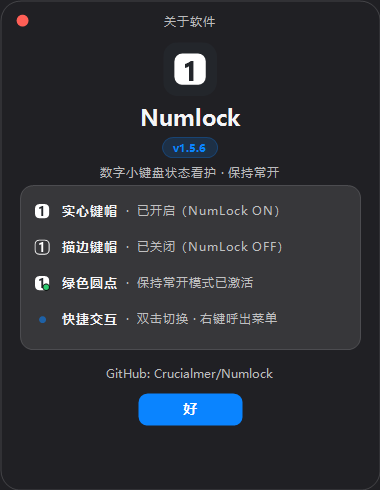
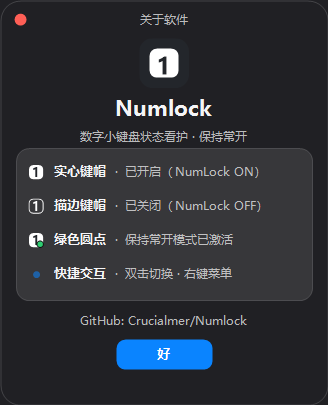
feat: implement Plan B minimalist about window without version number, compact 328x405 sizing (v1.5.7)

diff --git a/MacAboutWindow.cs b/MacAboutWindow.cs
@@ -5,17 +5,19 @@ using System.Drawing.Text;
 namespace Numlock;
 
 /// <summary>
-/// macOS 26 风格独立“关于软件”模态卡片窗口：
+/// macOS 26 风格独立“关于软件”紧凑型模态卡片窗口（方案 B：极致纯粹极简设计）：
+/// · 纯粹极简视觉：彻底移除版本号字符串与花哨技术胶囊，回归原生极简温润感
+/// · 紧凑秀气尺寸：宽度收缩至 328px，高度收缩至 405px，黄金纵横比例
 /// · 居中呈现于用户当前操作的显示器工作区，与 macOS 原生面板标准对齐
 /// · 连续曲率圆角矩形（Squircle）+ 极细半透明发丝描边 + 瞬态亚克力材质（DWM Transient Acrylic）
 /// · macOS 经典红点关闭控制 + 顶部居中细致标题 + 全窗平滑拖拽移动
-/// · 54px 品牌键帽磁贴应用图标 + 加粗品牌名 + 磨砂半透明版本徽标胶囊
+/// · 50px 品牌键帽磁贴应用图标 + 醒目品牌名 + 次级描述副标题
 /// · 状态图例与功能指引内嵌卡片（macOS Inset Card）：
 ///     1. 实心键帽：已开启（NumLock ON）
 ///     2. 描边键帽：已关闭（NumLock OFF）
 ///     3. 绿色圆点：保持常开模式已激活
-///     4. 快捷交互：双击切换 · 右键呼出菜单
-/// · 纯 GDI+ 抗锯齿文本渲染，彻底杜绝 ClearType 边缘重影
+///     4. 快捷交互：双击切换 · 右键菜单
+/// · 纯 GDI+ 抗锯齿矢量文本渲染，彻底杜绝 ClearType 边缘重影
 /// · 适配高 DPI 显示器（最高 8K 显示器，DPI 384+）与跨屏动态漫游（OnDpiChanged）
 /// · 沉浸式深/浅双模自适应 + 键盘交互（Esc / Enter 关闭）
 /// </summary>
@@ -23,7 +25,6 @@ internal sealed class MacAboutWindow : Form
 {
     private static MacAboutWindow? s_instance;
 
-    private readonly string _version;
     private readonly bool _dark;
     private float _scale;
     private int _cornerRadius;
@@ -54,9 +55,8 @@ internal sealed class MacAboutWindow : Form
 
     public static bool IsVisible => s_instance != null && !s_instance.IsDisposed && s_instance.Visible;
 
-    internal MacAboutWindow(string version, bool? dark = null)
+    internal MacAboutWindow(string? version = null, bool? dark = null)
     {
-        _version = version;
         _dark = dark ?? !SystemTheme.UsesLightTaskbar();
         _scale = DeviceDpi / 96f;
         _cornerRadius = (int)(16 * _scale);
@@ -70,8 +70,9 @@ internal sealed class MacAboutWindow : Form
         BackColor = Color.FromArgb(BgColor.R, BgColor.G, BgColor.B);
         KeyPreview = true;
 
-        int width = (int)(380 * _scale);
-        int height = (int)(490 * _scale);
+        // 紧凑型尺寸：328 x 405（黄金卡片比例）
+        int width = (int)(328 * _scale);
+        int height = (int)(405 * _scale);
         ClientSize = new Size(width, height);
 
         // 居中呈现于用户当前操作光标所在的显示器工作区（符合 macOS 原生面板标准）
@@ -158,8 +159,8 @@ internal sealed class MacAboutWindow : Form
 
         // ——— 2. macOS 顶部标题栏控制（左上角红点 + 居中标题） ———
         float dotSize = 12 * _scale;
-        float dotX = 16 * _scale;
-        float dotY = 14 * _scale;
+        float dotX = 14 * _scale;
+        float dotY = 13 * _scale;
         _closeBtnRect = new RectangleF(dotX - 3, dotY - 3, dotSize + 6, dotSize + 6);
 
         Color dotColor = _closePressed
@@ -183,56 +184,37 @@ internal sealed class MacAboutWindow : Form
         }
 
         // 顶部居中细致标题
-        using (var topFont = new Font("Microsoft YaHei", 12.5f * _scale, FontStyle.Regular, GraphicsUnit.Pixel))
+        using (var topFont = new Font("Microsoft YaHei", 12f * _scale, FontStyle.Regular, GraphicsUnit.Pixel))
         {
-            DrawStringCenter(g, "关于软件", topFont, SecondaryFg, new RectangleF(0, 12 * _scale, w, 20 * _scale));
+            DrawStringCenter(g, "关于软件", topFont, SecondaryFg, new RectangleF(0, 11 * _scale, w, 18 * _scale));
         }
 
-        // ——— 3. 应用标识（居中大磁贴 + 品牌名 + 胶囊版本徽标） ———
-        int iconSize = (int)(54 * _scale);
+        // ——— 3. 应用标识（居中精致磁贴 + 品牌名 + 纯粹副标题，不标版本号） ———
+        int iconSize = (int)(50 * _scale);
         int iconX = (w - iconSize) / 2;
-        int iconY = (int)(42 * _scale);
+        int iconY = (int)(38 * _scale);
         using (var tileBmp = IconFactory.RenderAppTile(iconSize))
         {
             g.DrawImage(tileBmp, iconX, iconY, iconSize, iconSize);
         }
 
-        // 品牌应用名（Bold 22px）
-        using var nameFont = new Font("Microsoft YaHei", 22f * _scale, FontStyle.Bold, GraphicsUnit.Pixel);
+        // 品牌应用名（Bold 21px）
+        using var nameFont = new Font("Microsoft YaHei", 21f * _scale, FontStyle.Bold, GraphicsUnit.Pixel);
         var nameSize = g.MeasureString("Numlock", nameFont);
         int nameY = iconY + iconSize + (int)(6 * _scale);
         DrawStringCenter(g, "Numlock", nameFont, FgColor, new RectangleF(0, nameY, w, nameSize.Height));
 
-        // 版本徽标胶囊（Pill Badge）
-        string verBadge = "v" + _version;
-        using var verFont = new Font("Microsoft YaHei", 11.5f * _scale, FontStyle.Bold, GraphicsUnit.Pixel);
-        var verSize = g.MeasureString(verBadge, verFont);
-        int badgeW = (int)verSize.Width + (int)(16 * _scale);
-        int badgeH = (int)verSize.Height + (int)(4 * _scale);
-        int badgeX = (w - badgeW) / 2;
-        int badgeY = nameY + (int)nameSize.Height + (int)(4 * _scale);
-
-        var badgeRect = new RectangleF(badgeX, badgeY, badgeW, badgeH);
-        using (var badgePath = Gfx.RoundedRect(badgeRect, badgeH / 2f))
-        {
-            using var badgeFill = new SolidBrush(Color.FromArgb(_dark ? 40 : 25, AccentBlue));
-            g.FillPath(badgeFill, badgePath);
-            using var badgePen = new Pen(Color.FromArgb(_dark ? 80 : 50, AccentBlue), 1f);
-            g.DrawPath(badgePen, badgePath);
-        }
-        DrawStringCenter(g, verBadge, verFont, AccentBlue, badgeRect);
-
-        // 副标题描述
-        using var subFont = new Font("Microsoft YaHei", 12.5f * _scale, FontStyle.Regular, GraphicsUnit.Pixel);
-        int subY = badgeY + badgeH + (int)(6 * _scale);
-        DrawStringCenter(g, "数字小键盘状态看护 · 保持常开", subFont, SecondaryFg, new RectangleF(0, subY, w, 20 * _scale));
+        // 副标题描述（紧凑排布于软件名下方，无版本号阻断）
+        using var subFont = new Font("Microsoft YaHei", 12f * _scale, FontStyle.Regular, GraphicsUnit.Pixel);
+        int subY = nameY + (int)nameSize.Height + (int)(4 * _scale);
+        DrawStringCenter(g, "数字小键盘状态看护 · 保持常开", subFont, SecondaryFg, new RectangleF(0, subY, w, 18 * _scale));
 
         // ——— 4. 状态图例与功能卡片（macOS Inset Card） ———
-        int cardMargin = (int)(20 * _scale);
+        int cardMargin = (int)(16 * _scale);
         int cardX = cardMargin;
-        int cardY = subY + (int)(22 * _scale);
+        int cardY = subY + (int)(20 * _scale);
         int cardW = w - cardMargin * 2;
-        int cardH = (int)(164 * _scale);
+        int cardH = (int)(152 * _scale);
 
         var cardRect = new RectangleF(cardX, cardY, cardW, cardH);
         using (var cardPath = Gfx.RoundedRect(cardRect, 10 * _scale))
@@ -243,39 +225,39 @@ internal sealed class MacAboutWindow : Form
             g.DrawPath(cardStroke, cardPath);
         }
 
-        // 4 行图例：丰富的排版阶梯（Label: 13.5px Bold, Desc: 12.5px Regular）
-        int rowH = (int)(36 * _scale);
-        int startRowY = cardY + (int)(10 * _scale);
-        int rowPadX = cardX + (int)(14 * _scale);
+        // 4 行图例：紧凑精致字阶（Label: 13px Bold, Desc: 12px Regular）
+        int rowH = (int)(34 * _scale);
+        int startRowY = cardY + (int)(8 * _scale);
+        int rowPadX = cardX + (int)(12 * _scale);
         int cardRight = cardX + cardW;
 
         DrawLegendRow(g, rowPadX, startRowY + rowH * 0, cardRight, "实心键帽", "·  已开启（NumLock ON）", isSolid: true, hasBadge: false);
         DrawLegendRow(g, rowPadX, startRowY + rowH * 1, cardRight, "描边键帽", "·  已关闭（NumLock OFF）", isSolid: false, hasBadge: false);
         DrawLegendRow(g, rowPadX, startRowY + rowH * 2, cardRight, "绿色圆点", "·  保持常开模式已激活", isSolid: true, hasBadge: true);
-        DrawActionRow(g, rowPadX, startRowY + rowH * 3, cardRight, "快捷交互", "·  双击切换 · 右键呼出菜单");
+        DrawActionRow(g, rowPadX, startRowY + rowH * 3, cardRight, "快捷交互", "·  双击切换 · 右键菜单");
 
         // ——— 5. 底部主页链接与操作按钮 ———
         string linkText = "GitHub: Crucialmer/Numlock";
-        using var linkFont = new Font("Microsoft YaHei", 12.5f * _scale, _linkHover ? FontStyle.Underline : FontStyle.Regular, GraphicsUnit.Pixel);
+        using var linkFont = new Font("Microsoft YaHei", 12f * _scale, _linkHover ? FontStyle.Underline : FontStyle.Regular, GraphicsUnit.Pixel);
         var linkSize = g.MeasureString(linkText, linkFont);
-        int linkY = cardY + cardH + (int)(14 * _scale);
+        int linkY = cardY + cardH + (int)(12 * _scale);
         int linkX = (int)((w - linkSize.Width) / 2f);
         _linkRect = new RectangleF(linkX, linkY, linkSize.Width, linkSize.Height);
 
         DrawStringCenter(g, linkText, linkFont, _linkHover ? AccentBlueHover : SecondaryFg, _linkRect);
 
         // 主操作胶囊按钮：“好”
-        int btnW = (int)(104 * _scale);
-        int btnH = (int)(32 * _scale);
+        int btnW = (int)(96 * _scale);
+        int btnH = (int)(30 * _scale);
         int btnX = (w - btnW) / 2;
-        int btnY = linkY + (int)linkSize.Height + (int)(12 * _scale);
+        int btnY = linkY + (int)linkSize.Height + (int)(10 * _scale);
         _actionBtnRect = new RectangleF(btnX, btnY, btnW, btnH);
 
         Color btnBg = _actionPressed
             ? AccentBluePressed
             : (_actionHover ? AccentBlueHover : AccentBlue);
 
-        using var btnFont = new Font("Microsoft YaHei", 14f * _scale, FontStyle.Bold, GraphicsUnit.Pixel);
+        using var btnFont = new Font("Microsoft YaHei", 13.5f * _scale, FontStyle.Bold, GraphicsUnit.Pixel);
         DrawPillButton(g, _actionBtnRect, "好", btnFont, btnBg, Color.White);
 
         // ——— 6. 面板外边框 1px 半透明发丝描边 ———
@@ -291,15 +273,15 @@ internal sealed class MacAboutWindow : Form
         using var iconBmp = IconFactory.RenderTrayIcon(sz, isSolid, _dark, hasBadge);
         g.DrawImage(iconBmp, x, iconY, sz, sz);
 
-        int textX = x + sz + (int)(10 * _scale);
-        using var boldFont = new Font("Microsoft YaHei", 13.5f * _scale, FontStyle.Bold, GraphicsUnit.Pixel);
+        int textX = x + sz + (int)(8 * _scale);
+        using var boldFont = new Font("Microsoft YaHei", 13f * _scale, FontStyle.Bold, GraphicsUnit.Pixel);
         var labelSize = g.MeasureString(label, boldFont);
         int rowH = (int)(32 * _scale);
         DrawStringLeft(g, label, boldFont, FgColor, new RectangleF(textX, y, labelSize.Width, rowH));
 
         int descX = textX + (int)labelSize.Width + (int)(4 * _scale);
-        float descW = Math.Max(0, cardRight - descX - (int)(12 * _scale));
-        using var descFont = new Font("Microsoft YaHei", 12.5f * _scale, FontStyle.Regular, GraphicsUnit.Pixel);
+        float descW = Math.Max(0, cardRight - descX - (int)(8 * _scale));
+        using var descFont = new Font("Microsoft YaHei", 12f * _scale, FontStyle.Regular, GraphicsUnit.Pixel);
         DrawStringLeft(g, desc, descFont, SecondaryFg, new RectangleF(descX, y, descW, rowH));
     }
 
@@ -310,15 +292,15 @@ internal sealed class MacAboutWindow : Form
         using var dotBrush = new SolidBrush(Color.FromArgb(_dark ? 140 : 180, AccentBlue));
         g.FillEllipse(dotBrush, x + sz / 2f - dotR, y + (int)(8 * _scale) + sz / 2f - dotR, dotR * 2, dotR * 2);
 
-        int textX = x + sz + (int)(10 * _scale);
-        using var boldFont = new Font("Microsoft YaHei", 13.5f * _scale, FontStyle.Bold, GraphicsUnit.Pixel);
+        int textX = x + sz + (int)(8 * _scale);
+        using var boldFont = new Font("Microsoft YaHei", 13f * _scale, FontStyle.Bold, GraphicsUnit.Pixel);
         var labelSize = g.MeasureString(label, boldFont);
         int rowH = (int)(32 * _scale);
         DrawStringLeft(g, label, boldFont, FgColor, new RectangleF(textX, y, labelSize.Width, rowH));
 
         int descX = textX + (int)labelSize.Width + (int)(4 * _scale);
-        float descW = Math.Max(0, cardRight - descX - (int)(12 * _scale));
-        using var descFont = new Font("Microsoft YaHei", 12.5f * _scale, FontStyle.Regular, GraphicsUnit.Pixel);
+        float descW = Math.Max(0, cardRight - descX - (int)(8 * _scale));
+        using var descFont = new Font("Microsoft YaHei", 12f * _scale, FontStyle.Regular, GraphicsUnit.Pixel);
         DrawStringLeft(g, desc, descFont, SecondaryFg, new RectangleF(descX, y, descW, rowH));
     }
 
@@ -461,8 +443,8 @@ internal sealed class MacAboutWindow : Form
         base.OnFormClosed(e);
     }
 
-    /// <summary>单例打开 macOS 风格“关于软件”独立卡片窗口。</summary>
-    public static void ShowAbout(string version)
+    /// <summary>单例打开 macOS 风格“关于软件”紧凑型独立卡片窗口。</summary>
+    public static void ShowAbout(string? version = null)
     {
         if (s_instance != null && !s_instance.IsDisposed)
         {
@@ -476,9 +458,9 @@ internal sealed class MacAboutWindow : Form
     }
 
     /// <summary>自检与文档离线截图渲染辅助：无需实际弹出窗口即可离线精确渲染外观。</summary>
-    internal static Bitmap RenderPreview(bool dark, string version = "1.5.6")
+    internal static Bitmap RenderPreview(bool dark)
     {
-        using var win = new MacAboutWindow(version, dark);
+        using var win = new MacAboutWindow(null, dark);
         var bmp = new Bitmap(win.ClientSize.Width, win.ClientSize.Height, System.Drawing.Imaging.PixelFormat.Format32bppRgb);
         bmp.SetResolution(96, 96);
         using (var g = Graphics.FromImage(bmp))

diff --git a/SelfTest.cs b/SelfTest.cs
@@ -252,7 +252,7 @@ internal static class SelfTest
                 Check($"G2d. macOS 26 关于软件窗口渲染（深浅双模/图例卡片完整，亮度 {abLumLight:F0}/{abLumDark:F0}）",
                     LooksRenderedFile(abLightPath) && LooksRenderedFile(abDarkPath)
                     && abLumLight - abLumDark > 30
-                    && abLight.Width >= 370 && abLight.Height >= 480);
+                    && abLight.Width >= 320 && abLight.Height >= 400);
             }
 
             app.SetMenuTheme(!SystemTheme.UsesLightTaskbar()); // 恢复真实主题
@@ -286,15 +286,15 @@ internal static class SelfTest
                 Check("G5. 高 DPI（64px）托盘图标渲染有效", LooksRendered(big));
             }
 
-            // G5b. 8K 高 DPI（384 DPI = 400% 缩放）跨屏漫游与窗口度量计算
+            // G5b. 8K 高 DPI（384 DPI = 400% 缩放）跨屏漫游与紧凑窗口度量计算
             {
                 float s8k = 384f / 96f; // 4.0
-                int aboutW8k = (int)(380 * s8k);
-                int aboutH8k = (int)(490 * s8k);
+                int aboutW8k = (int)(328 * s8k);
+                int aboutH8k = (int)(405 * s8k);
                 int updateW8k = (int)(390 * s8k);
                 int updateH8k = (int)(380 * s8k);
                 Check($"G5b. 8K 高 DPI（384 DPI / 400% 缩放）窗口度量自适应（关于={aboutW8k}x{aboutH8k}px，更新={updateW8k}x{updateH8k}px）",
-                    aboutW8k == 1520 && aboutH8k == 1960 && updateW8k == 1560 && updateH8k == 1520);
+                    aboutW8k == 1312 && aboutH8k == 1620 && updateW8k == 1560 && updateH8k == 1520);
             }
 
             // K. 菜单项文字墨迹垂直居中（用渲染图实测；勾选/箭头按行高居中，文字须同源居中）
